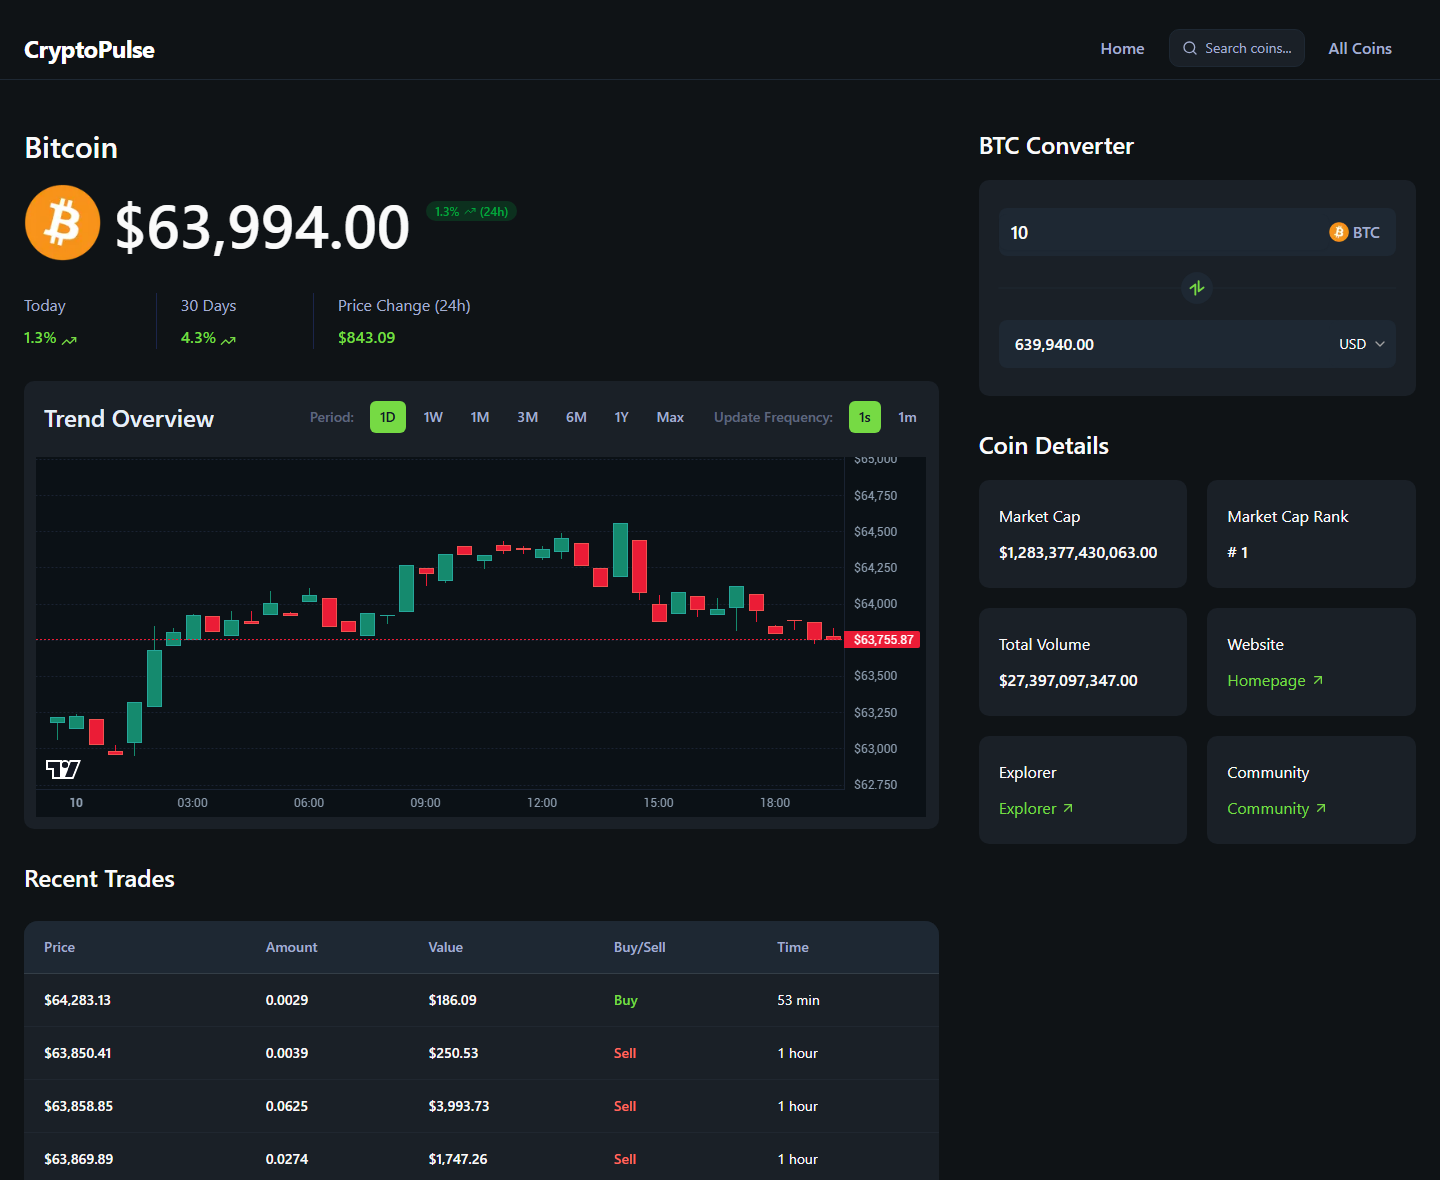
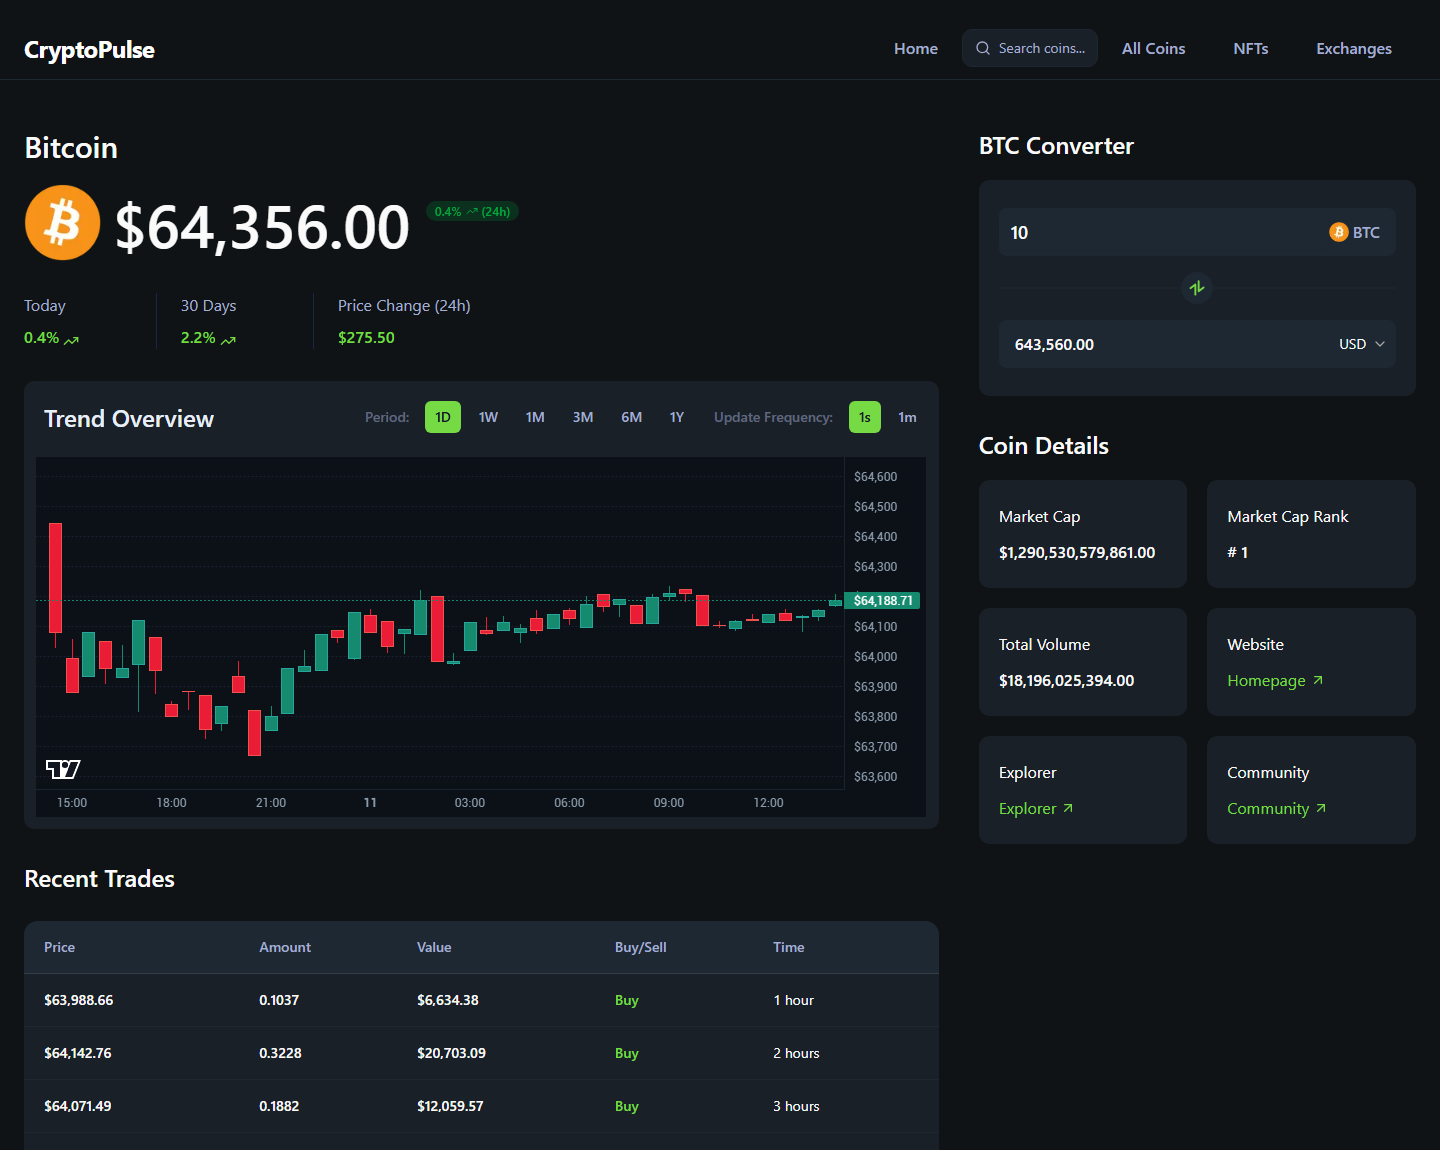
docs: update README with live demo link and current screenshots

diff --git a/README.md b/README.md
@@ -10,29 +10,37 @@
 ![Tailwind CSS](https://img.shields.io/badge/Tailwind_CSS-4-38BDF8?logo=tailwindcss&logoColor=white)
 ![CoinGecko](https://img.shields.io/badge/Data-CoinGecko-8DC647?logo=coingecko&logoColor=white)
 
+### [🔗 Live Demo →](https://cryptopulsehq.vercel.app/)
+
 ![CryptoPulse dashboard](docs/home.png)
 
 </div>
 
 ## About
 
-CryptoPulse is a crypto market dashboard that tracks live prices, trending coins, market categories, and per-coin analytics. I built it as a portfolio project to demonstrate production-grade **Next.js App Router** work — streaming server components, Server Actions, third-party API integration on a rate-limited free tier, and a polished, responsive dark UI.
+CryptoPulse is a crypto market dashboard that tracks live prices, trending coins, market categories, NFT collections, exchanges, and per-coin analytics. I built it as a portfolio project to demonstrate production-grade **Next.js App Router** work — streaming server components, Server Actions, third-party API integration on a rate-limited free tier, and a polished, responsive dark UI.
 
 It runs entirely on CoinGecko's free **Demo** plan, with graceful fallbacks so nothing breaks when the API is slow or a data point is missing.
 
 ## ✨ Features
 
-- **Home dashboard** — a Bitcoin candlestick overview, live trending coins, and top market categories, each streamed independently with React `Suspense` and skeleton fallbacks.
+- **Home dashboard** — a global market-stats header (total market cap, 24h volume, BTC dominance, active coins), a Bitcoin candlestick overview, live trending coins, and top market categories — each streamed independently with React `Suspense` and skeleton fallbacks.
 - **All Coins** — a paginated market table ranked by market cap, with price and 24h change.
-- **Coin detail pages** — an interactive candlestick chart with selectable periods (1D → Max), a live-updating price header, a currency converter, key stats, official links, and an expandable **Recent Trades** feed sourced from on-chain DEX data.
+- **Coin detail pages** — an interactive candlestick chart with selectable periods (1D → 1Y), a live-updating price header, a currency converter, a market-stats grid (ATH/ATL, 24h high/low, supply, FDV), an About section, official links, and an expandable **Recent Trades** feed sourced from on-chain DEX data.
+- **NFT explorer** — a gallery of notable collections with banners, floor prices, and 24h stats, plus a per-collection detail page (floor, market cap, volume, sales, owners, supply).
+- **Exchanges** — a ranked, paginated table by trust score & 24h volume, plus a per-exchange detail page with key stats and its top trading pairs.
 - **Instant search** — a command-palette-style modal with debounced queries, trending suggestions, full keyboard navigation, and rich result rows.
 - **Free-tier resilient** — uses the Demo host/headers, avoids paid-only parameters, and substitutes REST polling where the paid WebSocket feed would normally be used.
 
 ## 📸 Screenshots
 
-|                     Coin details                     |                    All coins                     |
-| :--------------------------------------------------: | :----------------------------------------------: |
-| ![Coin details page](docs/coin-details.png)          | ![All coins page](docs/coins.png)                |
+|             Coin details              |          NFT explorer           |
+| :-----------------------------------: | :-----------------------------: |
+| ![Coin details](docs/coin-details.png) | ![NFT explorer](docs/nfts.png) |
+
+|              Exchanges               |             All coins              |
+| :----------------------------------: | :--------------------------------: |
+| ![Exchanges](docs/exchanges.png)     | ![All coins](docs/coins.png)       |
 
 ## 🛠 Tech Stack
 
@@ -56,7 +64,7 @@ It runs entirely on CoinGecko's free **Demo** plan, with graceful fallbacks so n
 
 ```bash
 # 1. Clone
-git clone https://github.com/<your-username>/CryptoPulse.git
+git clone https://github.com/Sodiaro/CryptoPulse.git
 cd CryptoPulse
 
 # 2. Install
@@ -96,15 +104,20 @@ NEXT_PUBLIC_ENABLE_LIVE_DATA=false
 app/
   page.tsx              # Home dashboard (streamed sections)
   coins/                # All Coins list + [id] detail pages
+  nfts/                 # NFT explorer + [id] collection detail
+  exchanges/            # Exchanges list + [id] detail (with trading pairs)
   layout.tsx            # Root layout, header, fonts, metadata
   icon.svg              # Bitcoin favicon
 components/
-  home/                 # CoinOverview, TrendingCoins, Categories, fallbacks
+  home/                 # MarketStats, CoinOverview, TrendingCoins, Categories, fallbacks
   Search.tsx            # Search modal
   CandlestickChart.tsx  # lightweight-charts wrapper
   LiveDataWrapper.tsx   # Live header, chart, recent trades
   Converter.tsx         # Currency converter
   DataTable.tsx         # Generic table
+  CoinsPagination.tsx   # Path-aware pagination
+  NftCard.tsx           # NFT collection card
+  ReadMore.tsx          # Clamp/expand for descriptions
   ui/                   # shadcn/ui primitives
 hooks/                  # useCoinGeckoWebSocket (live feed, paid tier)
 lib/
@@ -123,6 +136,10 @@ A few decisions worth calling out:
 - **Hydration-safe formatting.** Currency is formatted with a pinned `en-US` locale to avoid server/client mismatches (the server defaulted to `en-GB`, rendering `US$` vs `$`).
 - **Free-plan aware.** The paid live WebSocket is gated behind a feature flag; recent trades fall back to polling the on-chain REST endpoint so the feature still works on the Demo tier.
 
+## ▲ Deployment
+
+Live on [Vercel](https://cryptopulsehq.vercel.app/). To deploy your own: import the repo on Vercel, add the two `COINGECKO_*` environment variables, and deploy — it builds with zero extra config.
+
 ## 📦 Scripts
 
 | Command         | Description                       |
@@ -139,5 +156,5 @@ MIT — free to use, learn from, and build on.
 ---
 
 <div align="center">
-Built by <a href="https://github.com/">Sodiq Semiu</a> · Data by <a href="https://www.coingecko.com/en/api">CoinGecko</a>
+Built by <a href="https://github.com/Sodiaro">Sodiq Semiu</a> · Data by <a href="https://www.coingecko.com/en/api">CoinGecko</a>
 </div>
